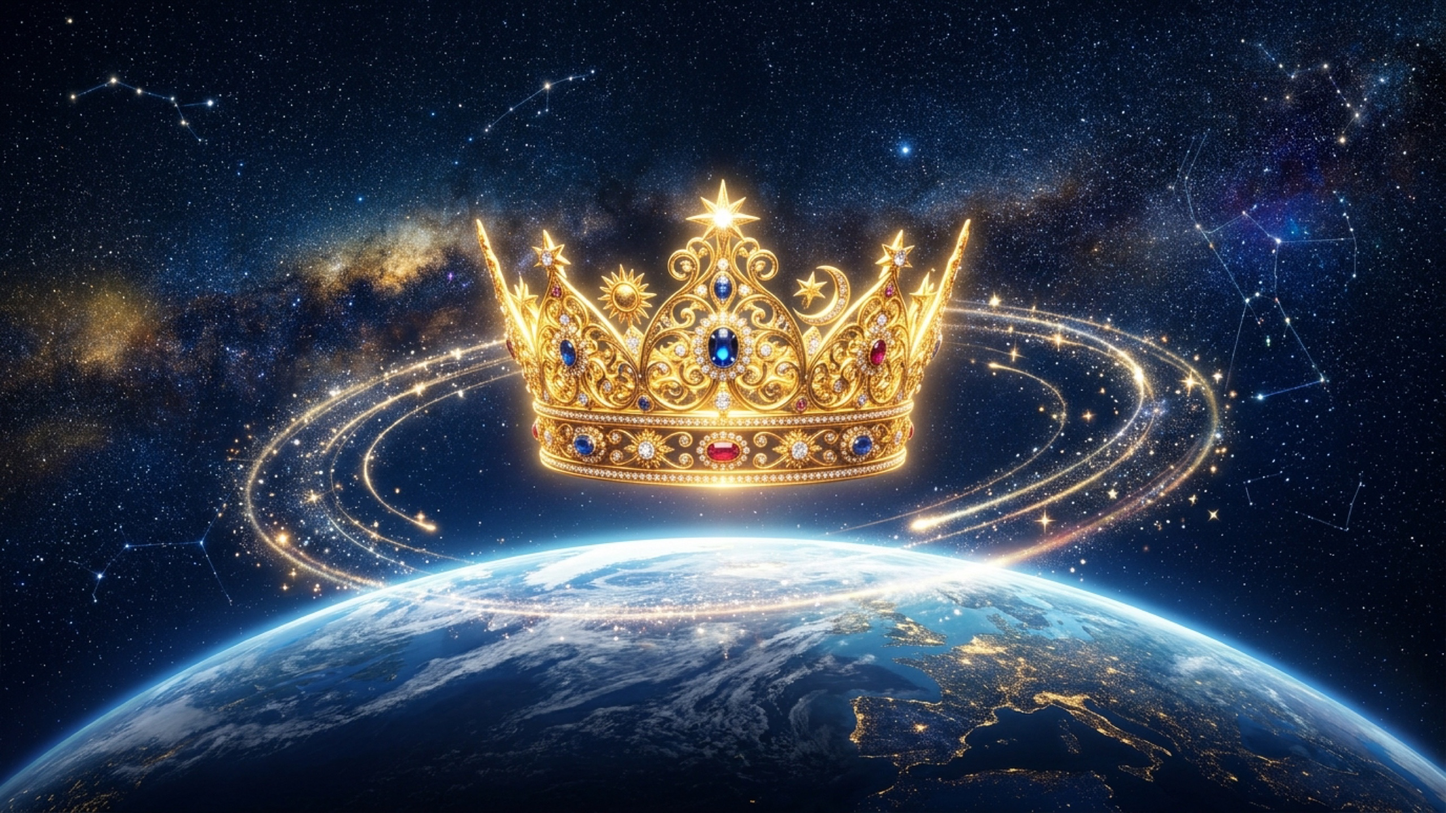
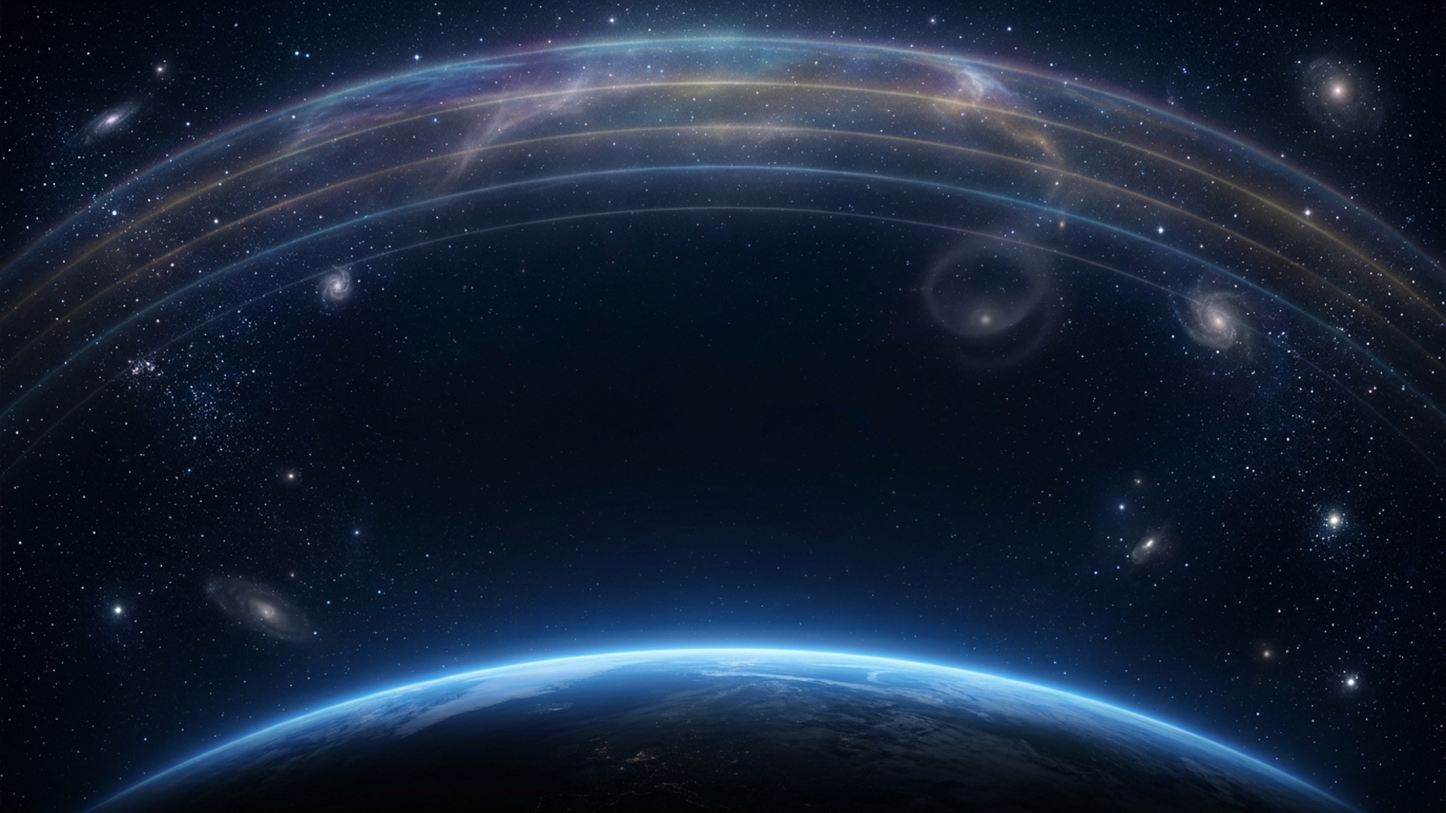
chore(quran): finalize hi-res artwork — al-Mulk cover + cache-buster v23

diff --git a/src/lib/data/quran.ts b/src/lib/data/quran.ts
@@ -33,7 +33,7 @@ export function quranImageUrl(
   if (kind === "surah") {
     const pad = String(num).padStart(3, "0");
     const slug = SURAH_SLUG_MAP[num] || `surah-${num}`;
-    return `/assets/images/surah/${pad}-${slug}.jpg?v=22`;
+    return `/assets/images/surah/${pad}-${slug}.jpg?v=23`;
   }
   const pad = String(num).padStart(2, "0");
   return `/assets/images/quran/juz-${pad}.jpg`;
